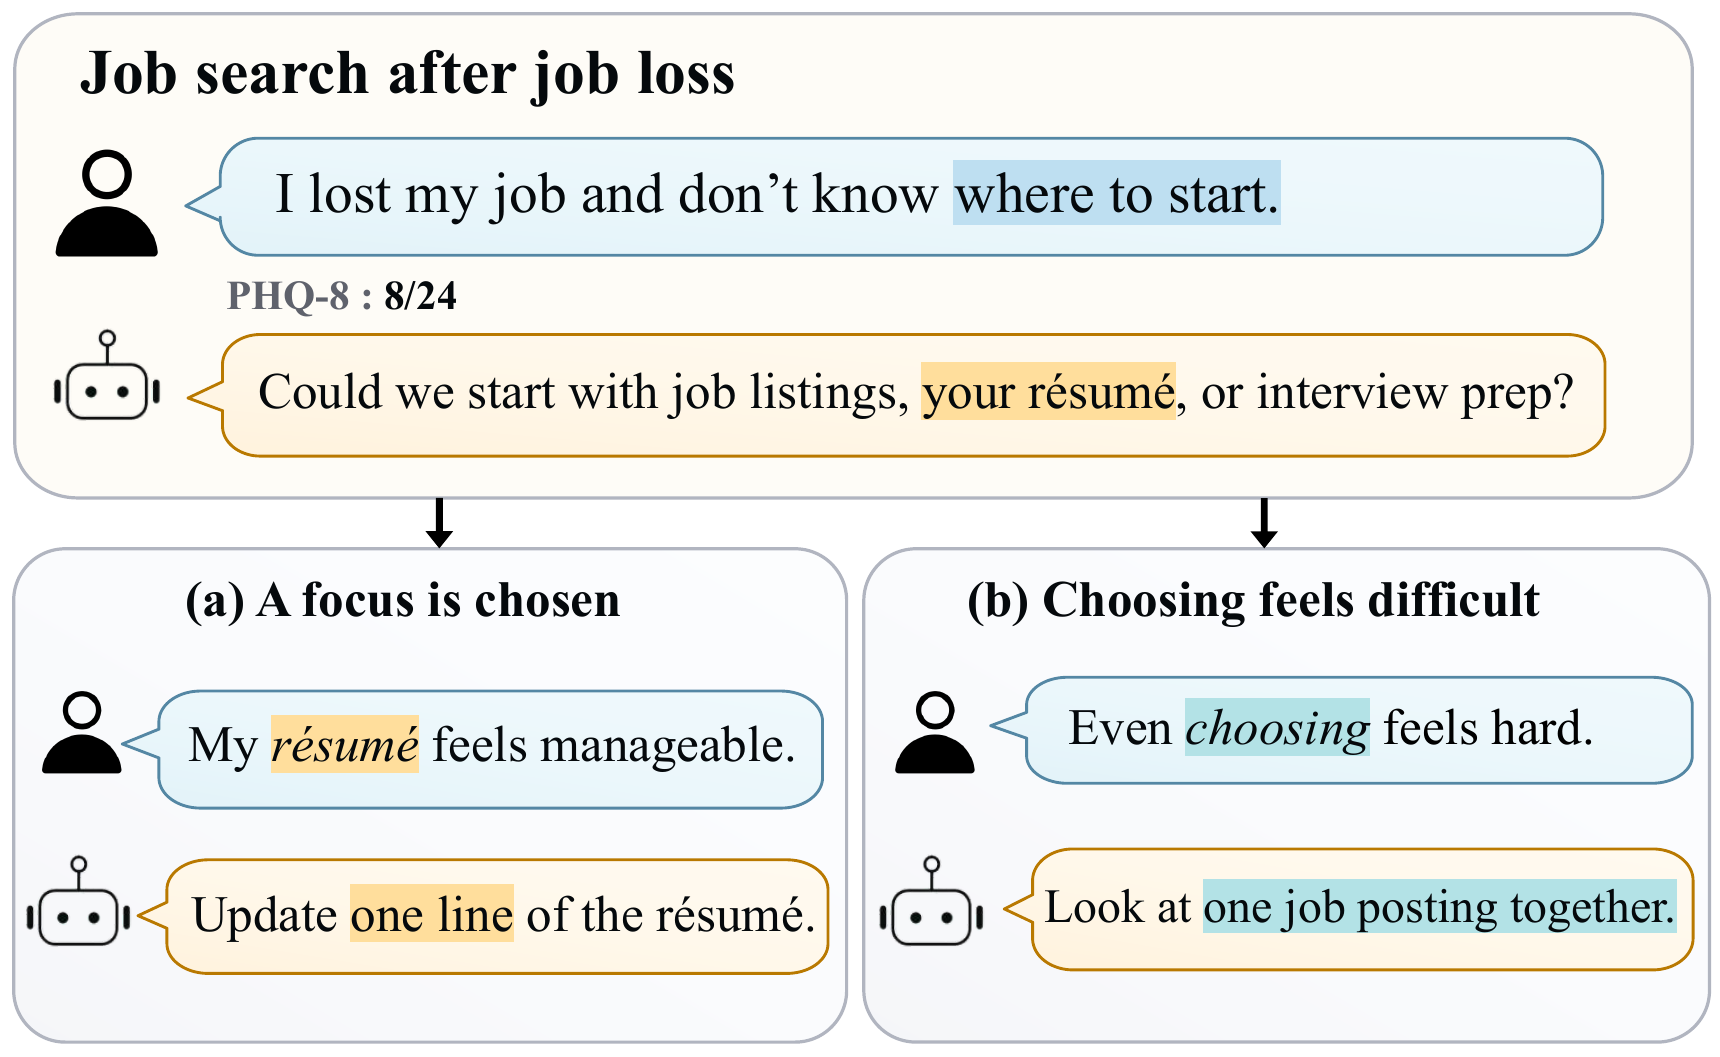
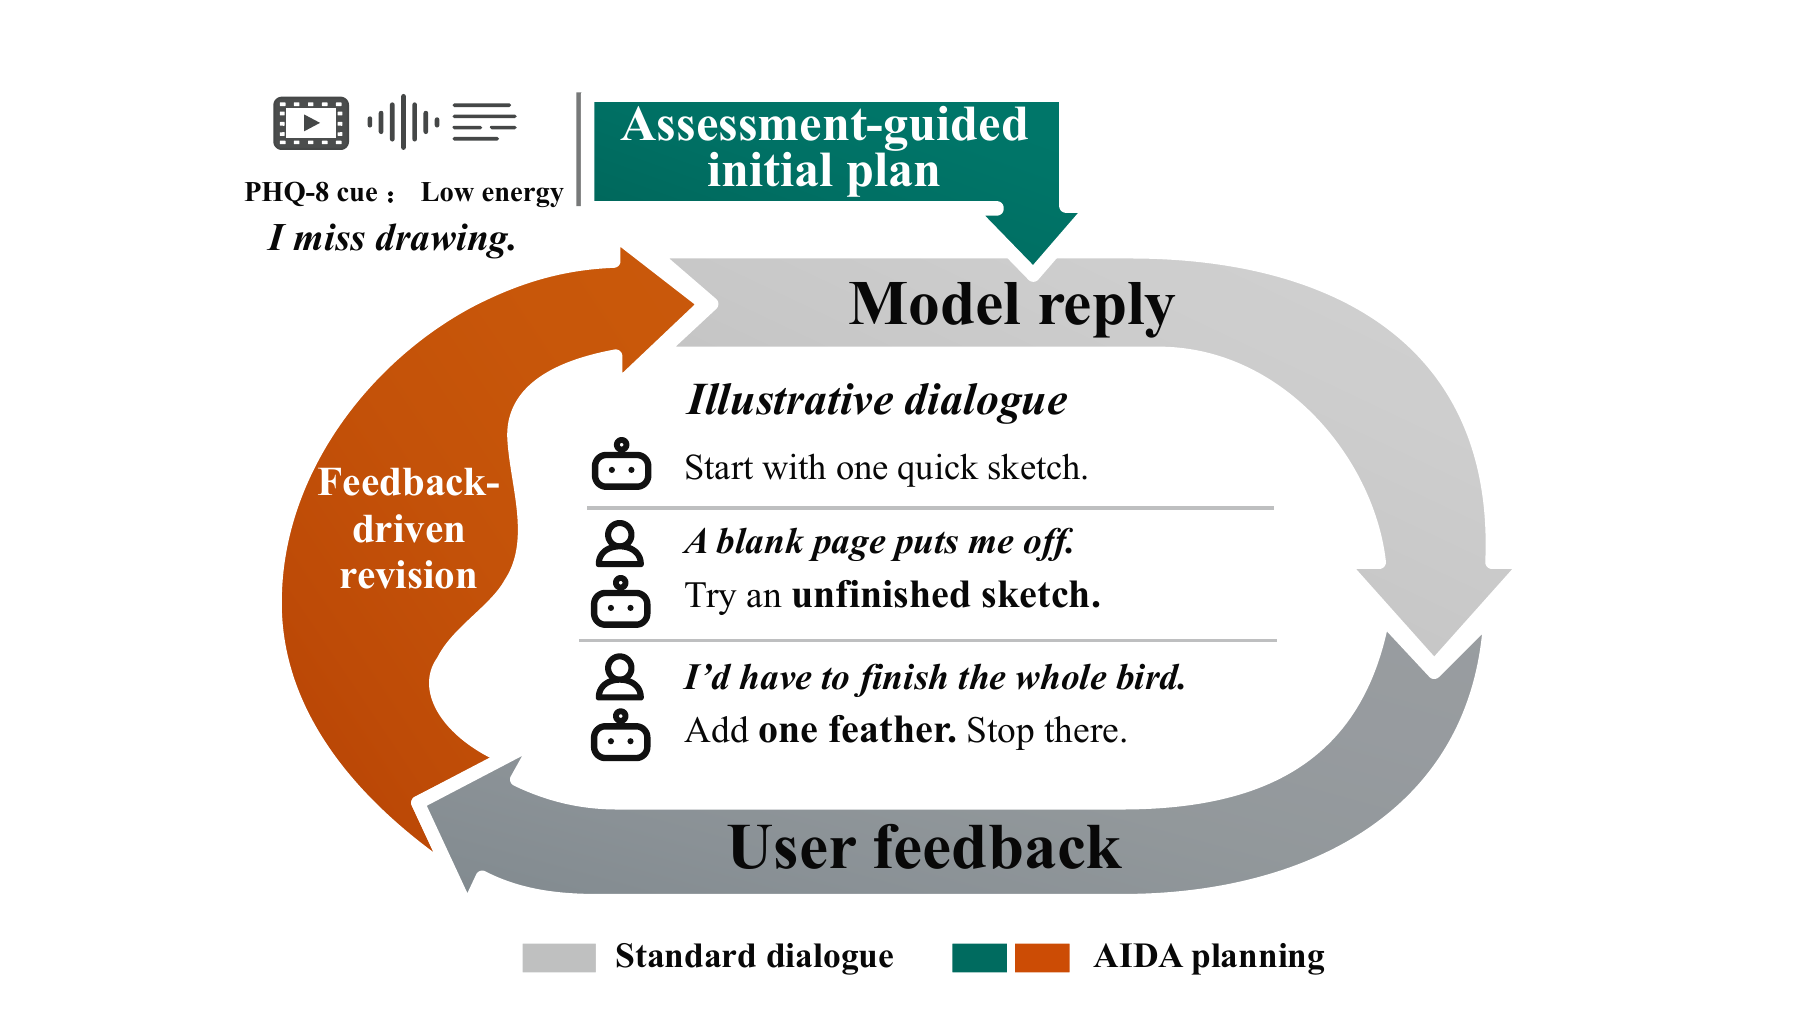
Sync Figure 1 and the drawing example with the manuscript

diff --git a/README.md b/README.md
@@ -59,13 +59,13 @@ Multimodal interviews can reveal the severity of depressive symptoms. Using that
 
 ## How AIDA works
 
-**One proposal can elicit different obstacles.** In Figure 1, the same user who has lost a job might feel ready to edit a résumé or might find choosing among tasks overwhelming. The first response supports editing one line. The second calls for the counselor to narrow the choice.
+**Returning to drawing.** The user misses drawing, and the assessment points to low energy. AIDA suggests a quick sketch. When the user says a blank page puts them off, AIDA suggests picking up an unfinished drawing. The user then worries about having to finish the whole bird, so AIDA suggests adding one feather and stopping there.
 
 <p align="center">
-  <a href="assets/motivation.png"><img src="assets/motivation.png" width="640" alt="Two responses to job loss. A user who chooses a résumé gets help editing one line. A user who finds the choice difficult gets one job posting to look at."></a>
+  <a href="assets/motivation.png"><img src="assets/motivation.png" width="640" alt="A teal arrow leads from the low-energy assessment to an initial plan. Gray arrows link model replies and user feedback, and an orange arrow carries the revised plan into the next turn. In the example, the model suggests returning to an unfinished bird and stopping after one feather."></a>
 </p>
 
-*Figure 1. Two possible reactions to the same opening proposal lead to different next actions.*
+*Figure 1. A PHQ-8 cue of low energy motivates one quick sketch. A daunting blank page shifts the starting point to an unfinished bird. When the user feels obliged to finish it, the planner suggests stopping after one feather.*
 
 **The assessment informs the planner. The user's feedback informs the revision.** The planner can take a PHQ-8 total alongside the opening concern, select one of seven CBT techniques, and write an initial plan. The executor uses the technique, plan, and dialogue history to generate the first reply. After the user responds, the planner receives its previous plan and the updated history. In Figure 2, the request for one detail changes the next question while the technique remains Reality Testing.
 
